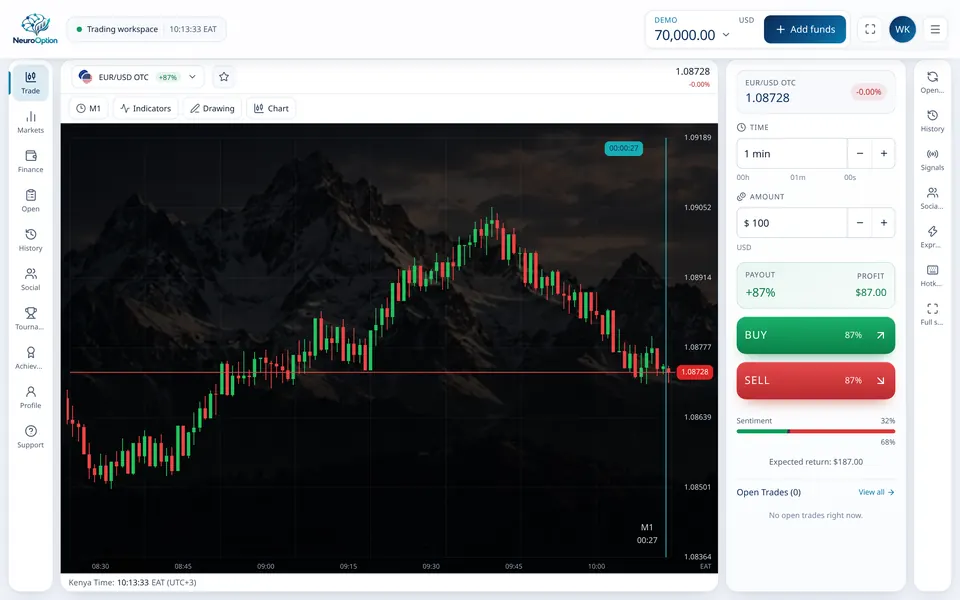
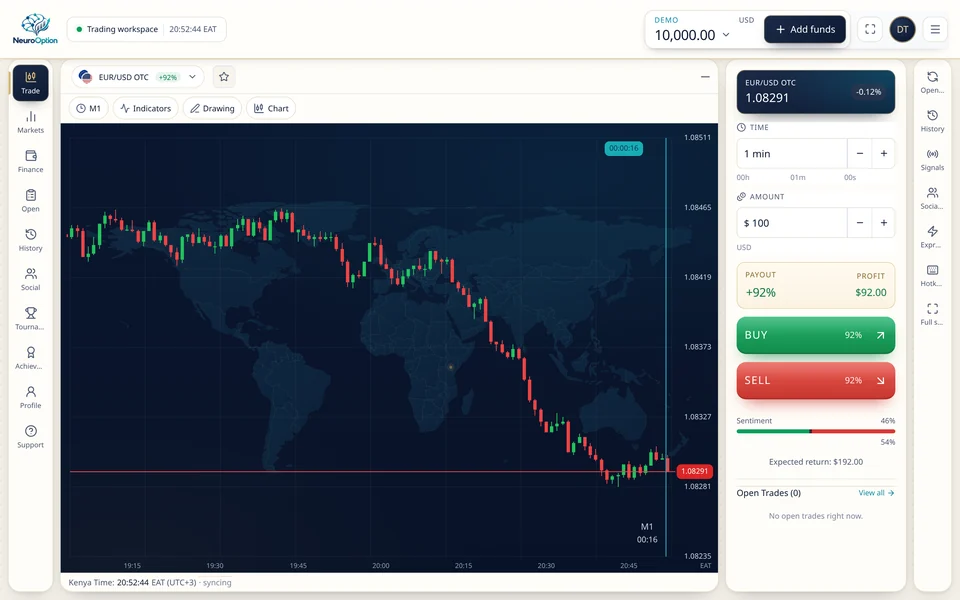
Homepage hero: use the current premium trading screenshots
Replaces public/landing/screens/trading-desktop.webp, -960.webp and
trading-mobile.webp with the current premium trading screen (ivory and
navy terminal with the world-map chart, neutral "Demo Trader" demo
account), the same captures used on the sign-in page. The image URLs get
?v=2 so browsers and the CDN fetch the new files.

Claude-Session: https://claude.ai/code/session_01CuoWNzzG3Kz6m4ypu6KeAN

diff --git a/src/pages/LandingPage.tsx b/src/pages/LandingPage.tsx
@@ -147,8 +147,8 @@ function HeroScreens() {
           <em>neurooption.com/trading</em>
         </div>
         <img
-          src="/landing/screens/trading-desktop.webp"
-          srcSet="/landing/screens/trading-desktop-960.webp 960w, /landing/screens/trading-desktop.webp 1600w"
+          src="/landing/screens/trading-desktop.webp?v=2"
+          srcSet="/landing/screens/trading-desktop-960.webp?v=2 960w, /landing/screens/trading-desktop.webp?v=2 1600w"
           sizes="(max-width: 900px) 92vw, 700px"
           alt="NeuroOption trading screen on desktop: EUR/USD OTC candlestick chart with the trade panel"
           width={1600}
@@ -159,7 +159,7 @@ function HeroScreens() {
       </figure>
       <figure className="ho-handset">
         <img
-          src="/landing/screens/trading-mobile.webp"
+          src="/landing/screens/trading-mobile.webp?v=2"
           alt="NeuroOption trading screen on a phone: live chart with BUY and SELL buttons"
           width={585}
           height={1266}
